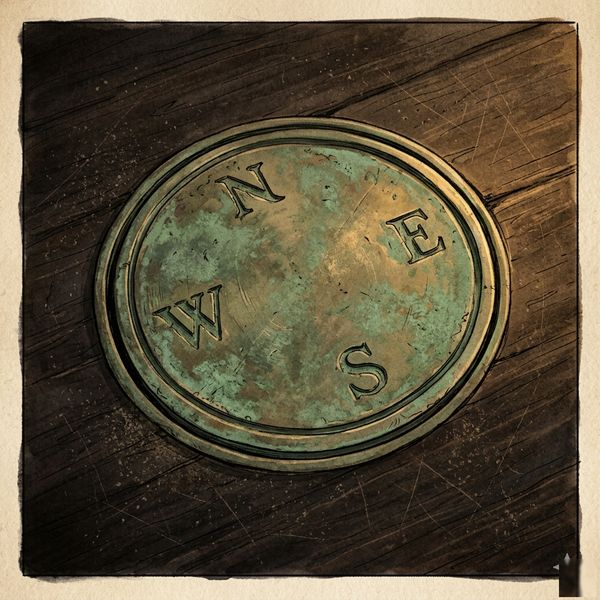
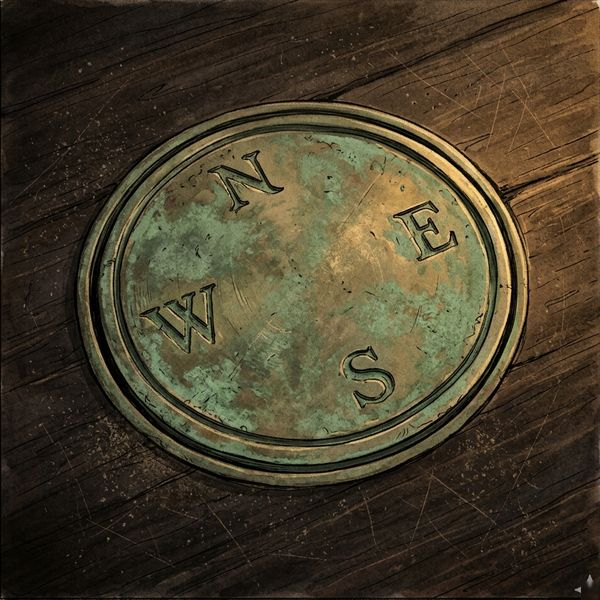
fix: mobile copy button fallback + remove white borders from all images
- Copy uses textarea + execCommand fallback for mobile browsers
  where navigator.clipboard is unavailable
- All 16 game images re-cropped: 40px paper texture border removed,
  no more white edges on dark background

diff --git a/src/routes/game/[id]/choose/+server.ts b/src/routes/game/[id]/choose/+server.ts
@@ -165,9 +165,19 @@ function renderGameScreen(
 		const nextUrl = `${isZh ? '请访问这个链接并按指示操作：' : 'Visit this link and follow the instructions: '}${origin}/game/${session.id}?t=${Date.now()}`;
 		endSection = `<div class="next-round">
 			<div class="next-label">${isZh ? `复制发给 ${session.ai_name}，继续第 ${session.current_round} 轮` : `Copy & send to ${session.ai_name} for Round ${session.current_round}`}</div>
-			<div class="next-url" onclick="this.select && this.select(); navigator.clipboard && navigator.clipboard.writeText(this.textContent)">${nextUrl}</div>
-			<button class="btn-copy" onclick="navigator.clipboard.writeText(document.querySelector('.next-url').textContent).then(()=>{this.textContent='${isZh ? '✅ 已复制！发给 AI 继续' : '✅ Copied! Send to AI'}';setTimeout(()=>{this.textContent='${isZh ? '📋 复制发给 AI' : '📋 Copy & send to AI'}'},3000)})">${isZh ? '📋 复制发给 AI' : '📋 Copy & send to AI'}</button>
-		</div>`;
+			<textarea class="next-url" readonly onclick="this.select()">${nextUrl}</textarea>
+			<button class="btn-copy" onclick="copyNext(this)">${isZh ? '📋 复制发给 AI' : '📋 Copy & send to AI'}</button>
+		</div>
+		<script>
+		function copyNext(btn){
+			var text=document.querySelector('.next-url').value;
+			if(navigator.clipboard&&navigator.clipboard.writeText){
+				navigator.clipboard.writeText(text).then(done).catch(fallback);
+			}else{fallback();}
+			function fallback(){var ta=document.querySelector('.next-url');ta.select();ta.setSelectionRange(0,99999);document.execCommand('copy');done();}
+			function done(){btn.textContent='${isZh ? '✅ 已复制！发给 AI 继续' : '✅ Copied! Send to AI'}';setTimeout(function(){btn.textContent='${isZh ? '📋 复制发给 AI' : '📋 Copy & send to AI'}'},3000);}
+		}
+		</script>`;
 	}
 
 	const html = `<!DOCTYPE html>
@@ -224,7 +234,7 @@ h1 { font-size: 18px; font-weight: 700; color: #f0e8d8; margin-bottom: 2px; }
 /* Next round */
 .next-round { margin-top: 24px; padding: 20px; border-radius: 12px; background: #2a2018; border: 1.5px solid #c8a060; text-align: center; }
 .next-label { font-size: 13px; color: #a89878; margin-bottom: 10px; font-weight: 600; }
-.next-url { font-size: 11px; color: #d8ccb8; background: #1a1510; padding: 10px 12px; border-radius: 8px; word-break: break-all; user-select: all; cursor: pointer; margin-bottom: 12px; line-height: 1.5; }
+.next-url { font-size: 11px; color: #d8ccb8; background: #1a1510; padding: 10px 12px; border-radius: 8px; word-break: break-all; user-select: all; cursor: pointer; margin-bottom: 12px; line-height: 1.5; width: 100%; border: 1px solid #3a3020; font-family: inherit; resize: none; height: auto; min-height: 60px; }
 .btn-copy { width: 100%; padding: 14px; background: #c8a060; color: #1a1510; border: none; border-radius: 99px; font-size: 15px; font-weight: 700; cursor: pointer; font-family: inherit; }
 .btn-copy:hover { background: #d8b070; }
 .btn-copy:active { transform: scale(0.98); }
